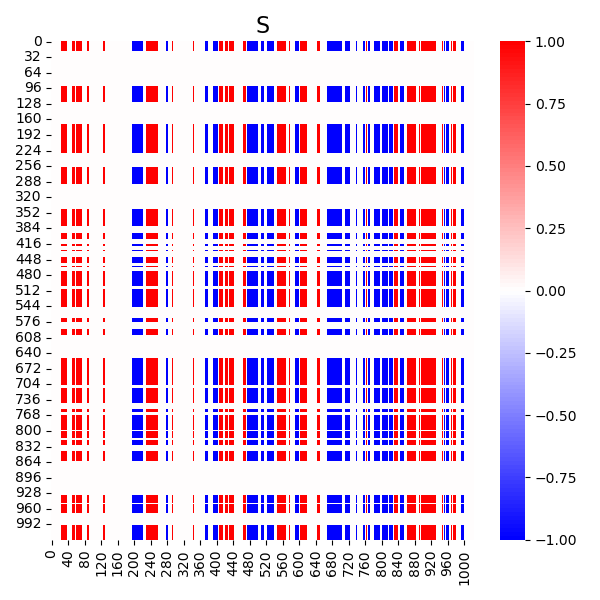
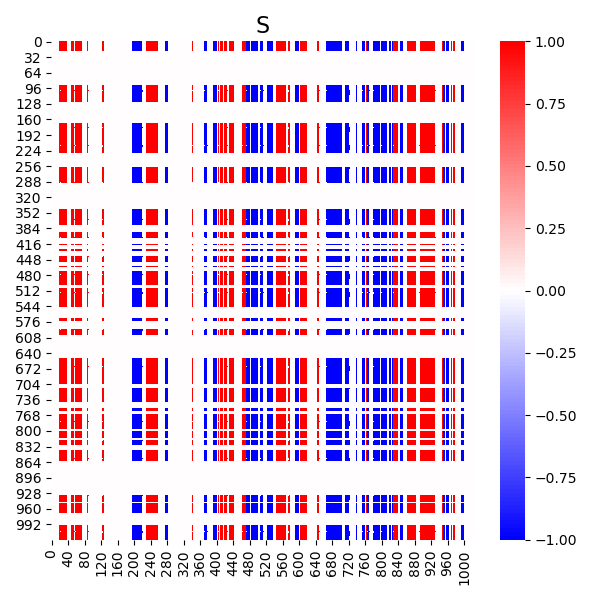
update

diff --git a/data_summary_plots.py b/data_summary_plots.py
@@ -359,13 +359,19 @@ def basic_plots(dataFolder, plot_y = True, plot_s = True, chi = None):
 
         if plot_s:
             x = np.load(osp.join(path, 'x.npy'))
+            seq0 = np.loadtxt(osp.join(path, 'seq0.txt'))
+            assert np.array_equal(x[:, 0], seq0)
+
             if chi is None:
                 chi_path = osp.join(path, 'chis.npy')
                 if osp.exists(chi_path):
-                    chi = np.load(chi_path)
+                    chi_sample = np.load(chi_path)
+                    # chi_sample = np.triu(chi_sample) + np.tril(chi_sample.T, -1)
+                    # print(chi_sample)
                 else:
                     raise Exception('chi not found at ', chi_path)
-            s = x @ chi @ x.T
+
+            s = x @ chi_sample @ x.T
             plotContactMap(s, osp.join(path, 's.png'), title = 'S', vmax = 'max', vmin = 'min', cmap = 'blue-red')
 
 
